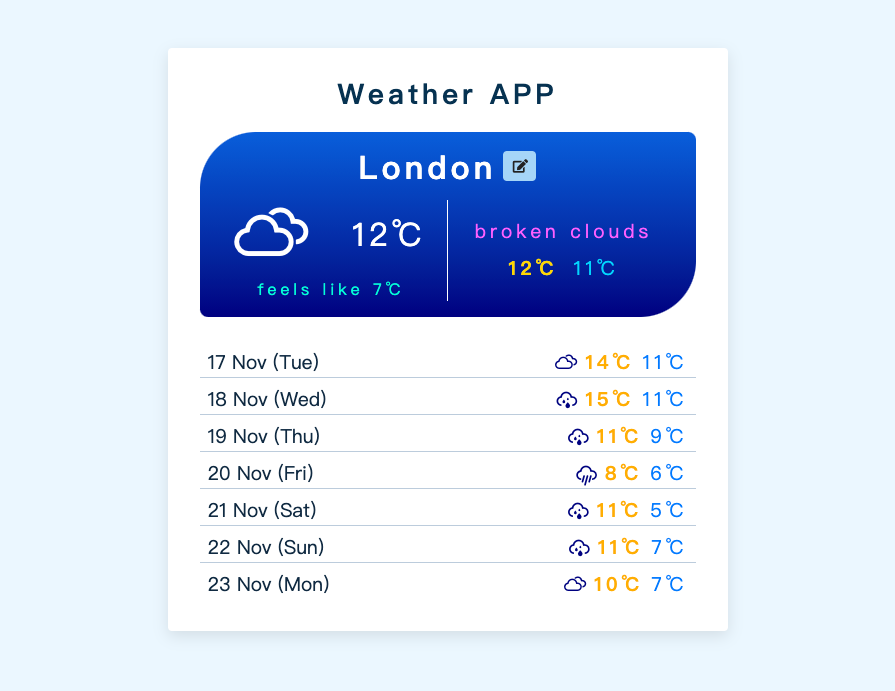
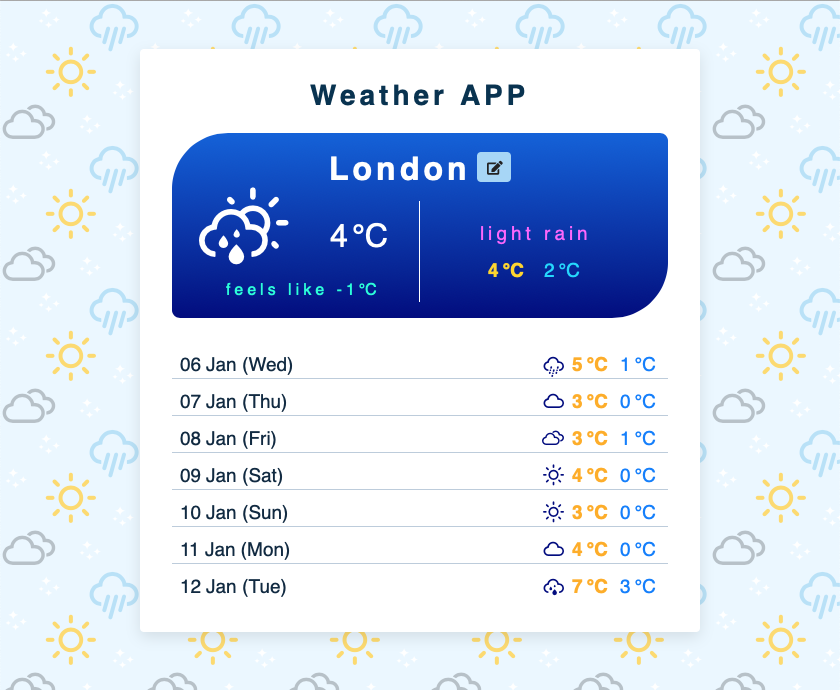
add background pattern

diff --git a/public/index.html b/public/index.html
@@ -1,70 +1,89 @@
 <!DOCTYPE html>
 <html lang="en">
-<head>
-    <meta charset="UTF-8">
-    <meta name="viewport" content="width=device-width, initial-scale=1.0">
+  <head>
+    <meta charset="UTF-8" />
+    <meta name="viewport" content="width=device-width, initial-scale=1.0" />
     <title>JavaScript Project_Weather App</title>
-    <link rel="stylesheet" href="style.css">
+    <link rel="stylesheet" href="style.css" />
     <!-- font-awesome -->
     <link
       rel="stylesheet"
       href="https://cdnjs.cloudflare.com/ajax/libs/font-awesome/5.14.0/css/all.min.css"
     />
     <!-- weather icons -->
-    <link rel="stylesheet" href="weather-icons.min.css">
+    <link rel="stylesheet" href="weather-icons.min.css" />
     <!-- city dropdown list (google places api & Maps JavaScript API) -->
-    <script defer src="https://maps.googleapis.com/maps/api/js?key=AIzaSyDMrP_sbwgr7LPKWvz7If7nD7VF77eKou4&libraries=places"></script>
+    <script
+      defer
+      src="https://maps.googleapis.com/maps/api/js?key=AIzaSyDMrP_sbwgr7LPKWvz7If7nD7VF77eKou4&libraries=places"
+    ></script>
     <script src="weather.js" defer></script>
-</head>
-<body>
-    <section class="section-center">
+  </head>
+  <body>
+    <div class="pattern">
+      <section class="section-center">
         <h3>Weather APP</h3>
         <!-- weather container -->
         <div class="weather-container">
-            <!-- location form -->
-            <form class="location-form" id="location-form">
-                <div class="location-update-container">
-                    <h4 class="weather-location" id="weather-location">London</h4>
-                    <button type="submit" class="location-update-btn" id="location-update-btn">
-                        <i class="fas fa-edit"></i>
-                    </button>
-                </div>
-                <div class="location-submit-container">
-                    <input type="text" class="location-input" id="location-input" placeholder="Search City">
-                </div>
-            </form>
-
-            <!-- status container -->
-            <div class="status-container">
-                <div class="status-container-left">
-                    <div class="status-icon-temp">
-                        <p id="weather-icon"><i class="wi wi-owm-800"></i></p> 
-                        <p class="day-temperture-now" id="day-temperture-now">TBD</p>
-                    </div>
-                    <p class="day-temperture-feels-like" id="day-temperture-feels-like">feels like TBD&#8451;</p>
-                </div>
-                <div class="status-container-right">
-                    <p class="weather-text" id="weather-text">TBD</p>
-                    <div class="day-tempture-container">
-                        <p class="day-temperture-high" id="day-temperture-high">TBD</p>
-                        <p class="day-temperture-low" id="day-temperture-low">TBD</p> 
-                    </div>
-                </div>
+          <!-- location form -->
+          <form class="location-form" id="location-form">
+            <div class="location-update-container">
+              <h4 class="weather-location" id="weather-location">London</h4>
+              <button
+                type="submit"
+                class="location-update-btn"
+                id="location-update-btn"
+              >
+                <i class="fas fa-edit"></i>
+              </button>
             </div>
+            <div class="location-submit-container">
+              <input
+                type="text"
+                class="location-input"
+                id="location-input"
+                placeholder="Search City"
+              />
+            </div>
+          </form>
+
+          <!-- status container -->
+          <div class="status-container">
+            <div class="status-container-left">
+              <div class="status-icon-temp">
+                <p id="weather-icon"><i class="wi wi-owm-800"></i></p>
+                <p class="day-temperture-now" id="day-temperture-now">TBD</p>
+              </div>
+              <p
+                class="day-temperture-feels-like"
+                id="day-temperture-feels-like"
+              >
+                feels like TBD&#8451;
+              </p>
+            </div>
+            <div class="status-container-right">
+              <p class="weather-text" id="weather-text">TBD</p>
+              <div class="day-tempture-container">
+                <p class="day-temperture-high" id="day-temperture-high">TBD</p>
+                <p class="day-temperture-low" id="day-temperture-low">TBD</p>
+              </div>
+            </div>
+          </div>
         </div>
-        
+
         <!-- forecast list -->
         <div class="forecast-list" id="forecast-list">
-            <!-- .list-item-title goes there -->
-            <article class="list-item-title">
-                <div class="date">TBD</div>
-                <div class="week-tempture-container">
-                    <p class="week-tempture-icon"><i class="wi wi-owm-800"></i></p>
-                    <p class="week-tempture-max">TBD&#8451;</p>
-                    <p class="week-tempture-min">TBD&#8451;</p>
-                </div>
-            </article>
+          <!-- .list-item-title goes there -->
+          <article class="list-item-title">
+            <div class="date">TBD</div>
+            <div class="week-tempture-container">
+              <p class="week-tempture-icon"><i class="wi wi-owm-800"></i></p>
+              <p class="week-tempture-max">TBD&#8451;</p>
+              <p class="week-tempture-min">TBD&#8451;</p>
+            </div>
+          </article>
         </div>
-    </section>
-</body>
+      </section>
+    </div>
+  </body>
 </html>

diff --git a/public/style.css b/public/style.css
@@ -135,6 +135,13 @@ p {
     line-height: 1;
   }
 }
+.pattern {
+  width: 100%;
+  height: 100vh;
+  /* background: red; */
+  padding-top: 3rem;
+  background: url(icons.svg);
+}
 
 /*
 =============== 
@@ -147,7 +154,7 @@ section
 .section-center {
   width: 90vw;
   padding: 2rem;
-  margin: 3rem auto;
+  margin: 0 auto;
   max-width: 35rem;
   background: var(--clr-white);
   border-radius: var(--radius);
